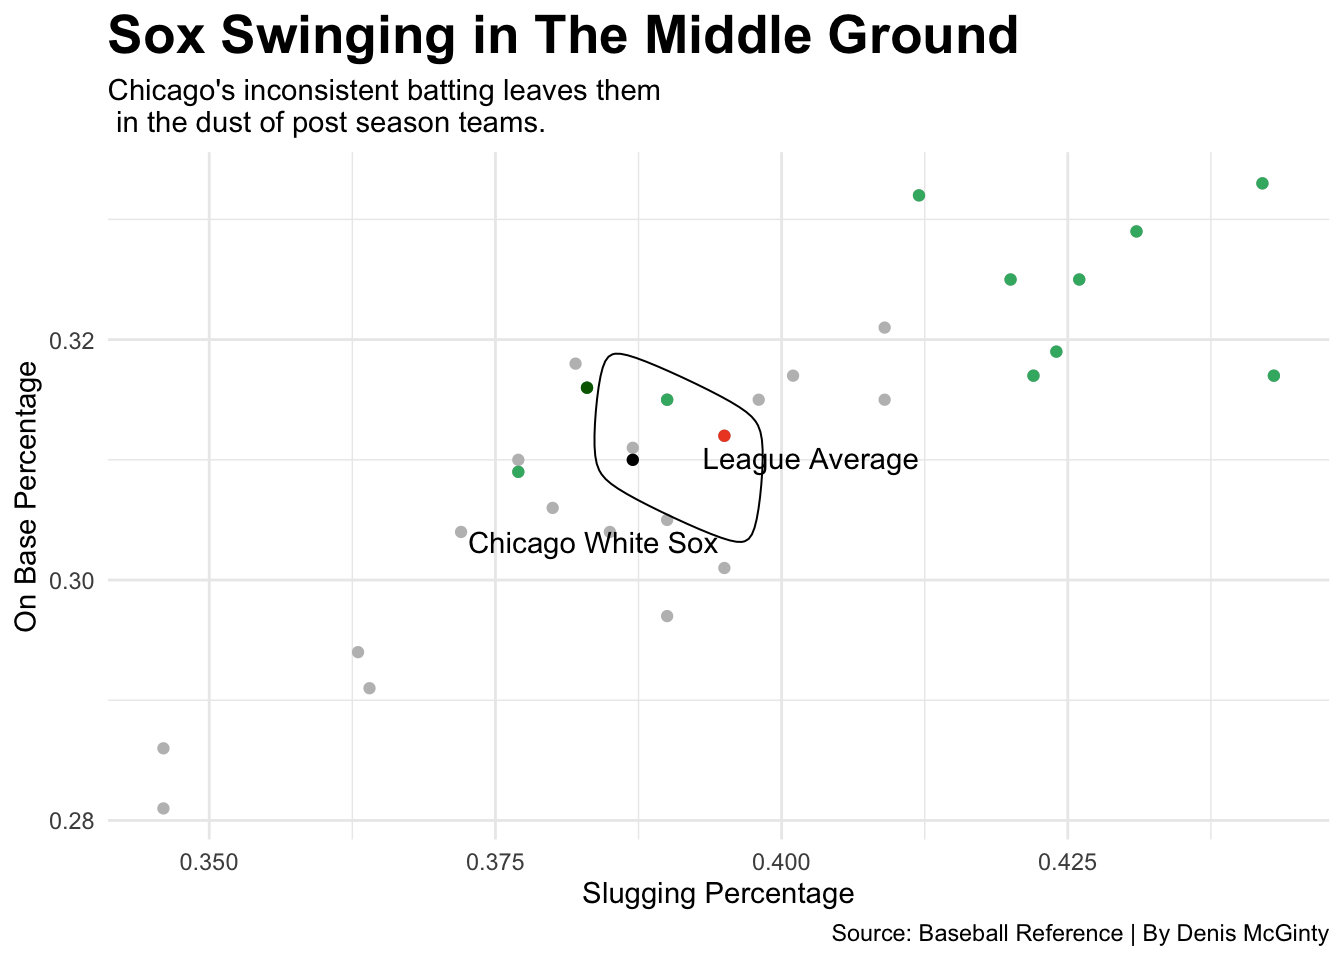
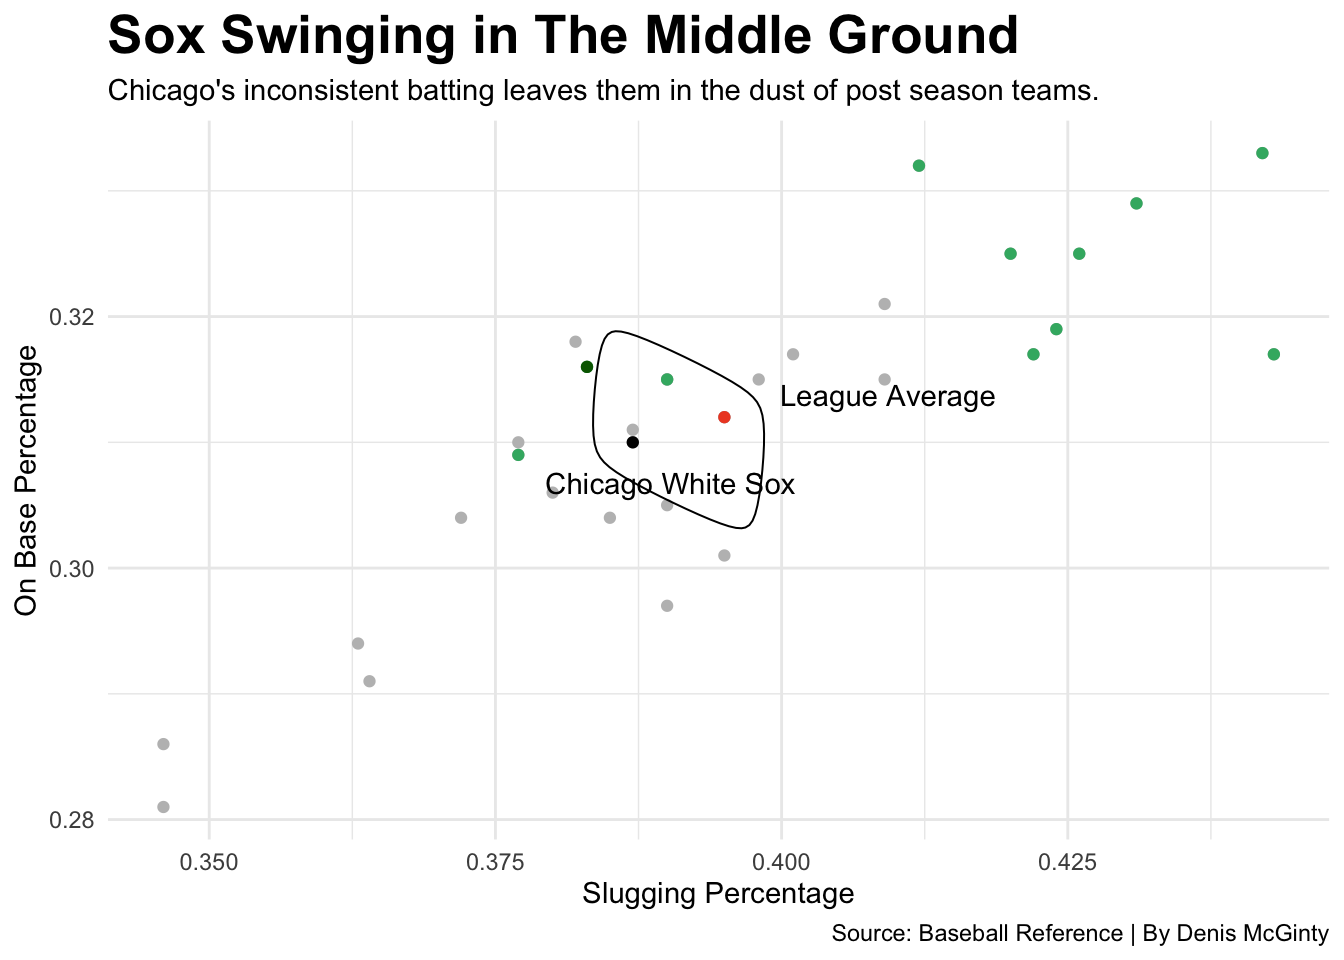
White sox project, cleaned and fixed subtitles

diff --git a/posts/white-sox-project/index.html b/posts/white-sox-project/index.html
@@ -221,7 +221,7 @@ pre > code.sourceCode > span > a:first-child::before { text-decoration: underlin
 <span id="cb1-37"><a href="#cb1-37" aria-hidden="true" tabindex="-1"></a>    <span class="at">x=</span><span class="st">"Slugging Percentage"</span>, </span>
 <span id="cb1-38"><a href="#cb1-38" aria-hidden="true" tabindex="-1"></a>    <span class="at">y=</span><span class="st">"On Base Percentage"</span>, </span>
 <span id="cb1-39"><a href="#cb1-39" aria-hidden="true" tabindex="-1"></a>    <span class="at">title=</span><span class="st">"Sox Swinging in The Middle Ground"</span>, </span>
-<span id="cb1-40"><a href="#cb1-40" aria-hidden="true" tabindex="-1"></a>    <span class="at">subtitle=</span><span class="st">"Chicago's inconsistent batting leaves them </span><span class="sc">\n</span><span class="st"> in the dust of post season teams."</span>, </span>
+<span id="cb1-40"><a href="#cb1-40" aria-hidden="true" tabindex="-1"></a>    <span class="at">subtitle=</span><span class="st">"Chicago's inconsistent batting leaves them in the dust of post season teams."</span>, </span>
 <span id="cb1-41"><a href="#cb1-41" aria-hidden="true" tabindex="-1"></a>    <span class="at">caption=</span><span class="st">"Source: Baseball Reference | By Denis McGinty"</span></span>
 <span id="cb1-42"><a href="#cb1-42" aria-hidden="true" tabindex="-1"></a>    ) <span class="sc">+</span></span>
 <span id="cb1-43"><a href="#cb1-43" aria-hidden="true" tabindex="-1"></a>  <span class="fu">theme_minimal</span>() <span class="sc">+</span> </span>
@@ -244,53 +244,45 @@ pre > code.sourceCode > span > a:first-child::before { text-decoration: underlin
 <span id="cb2-5"><a href="#cb2-5" aria-hidden="true" tabindex="-1"></a></span>
 <span id="cb2-6"><a href="#cb2-6" aria-hidden="true" tabindex="-1"></a>Players22 <span class="ot">&lt;-</span> <span class="fu">read_csv</span>(<span class="st">"22Playersbball.csv"</span>)</span>
 <span id="cb2-7"><a href="#cb2-7" aria-hidden="true" tabindex="-1"></a></span>
-<span id="cb2-8"><a href="#cb2-8" aria-hidden="true" tabindex="-1"></a>SOX22 <span class="ot">&lt;-</span> Players22 <span class="sc">|&gt;</span></span>
-<span id="cb2-9"><a href="#cb2-9" aria-hidden="true" tabindex="-1"></a>  <span class="fu">filter</span>(Tm <span class="sc">==</span> <span class="st">"CHW"</span>)</span>
-<span id="cb2-10"><a href="#cb2-10" aria-hidden="true" tabindex="-1"></a></span>
-<span id="cb2-11"><a href="#cb2-11" aria-hidden="true" tabindex="-1"></a>Teams <span class="ot">&lt;-</span> <span class="fu">read.csv</span>(<span class="st">"2022baseball.csv"</span>)</span>
-<span id="cb2-12"><a href="#cb2-12" aria-hidden="true" tabindex="-1"></a></span>
-<span id="cb2-13"><a href="#cb2-13" aria-hidden="true" tabindex="-1"></a>SOX <span class="ot">&lt;-</span> Teams <span class="sc">|&gt;</span> </span>
-<span id="cb2-14"><a href="#cb2-14" aria-hidden="true" tabindex="-1"></a>  <span class="fu">filter</span>(Tm <span class="sc">==</span> <span class="st">"Chicago White Sox"</span>)</span>
-<span id="cb2-15"><a href="#cb2-15" aria-hidden="true" tabindex="-1"></a></span>
-<span id="cb2-16"><a href="#cb2-16" aria-hidden="true" tabindex="-1"></a>SOXgood <span class="ot">&lt;-</span> Teams <span class="sc">|&gt;</span> </span>
-<span id="cb2-17"><a href="#cb2-17" aria-hidden="true" tabindex="-1"></a>  <span class="fu">filter</span>(Tm <span class="sc">==</span> <span class="st">"Chicago White Sox"</span>, H<span class="sc">&gt;</span><span class="dv">100</span>)</span>
+<span id="cb2-8"><a href="#cb2-8" aria-hidden="true" tabindex="-1"></a>Playersclean <span class="ot">&lt;-</span> Players22 <span class="sc">|&gt;</span> </span>
+<span id="cb2-9"><a href="#cb2-9" aria-hidden="true" tabindex="-1"></a>  <span class="fu">mutate</span>(<span class="at">Name=</span><span class="fu">gsub</span>(<span class="st">"</span><span class="sc">\\</span><span class="st">*"</span>, <span class="st">""</span>, Name)) <span class="sc">|&gt;</span></span>
+<span id="cb2-10"><a href="#cb2-10" aria-hidden="true" tabindex="-1"></a>  <span class="fu">mutate</span>(<span class="at">Name=</span><span class="fu">gsub</span>(<span class="st">"</span><span class="sc">\\</span><span class="st">#"</span>, <span class="st">""</span>, Name)) </span>
+<span id="cb2-11"><a href="#cb2-11" aria-hidden="true" tabindex="-1"></a></span>
+<span id="cb2-12"><a href="#cb2-12" aria-hidden="true" tabindex="-1"></a>SOX22 <span class="ot">&lt;-</span> Playersclean <span class="sc">|&gt;</span></span>
+<span id="cb2-13"><a href="#cb2-13" aria-hidden="true" tabindex="-1"></a>  <span class="fu">filter</span>(Tm <span class="sc">==</span> <span class="st">"CHW"</span>)</span>
+<span id="cb2-14"><a href="#cb2-14" aria-hidden="true" tabindex="-1"></a></span>
+<span id="cb2-15"><a href="#cb2-15" aria-hidden="true" tabindex="-1"></a>Players22f <span class="ot">&lt;-</span> Playersclean <span class="sc">|&gt;</span> <span class="fu">filter</span>(PA <span class="sc">&gt;</span> <span class="dv">125</span>)</span>
+<span id="cb2-16"><a href="#cb2-16" aria-hidden="true" tabindex="-1"></a></span>
+<span id="cb2-17"><a href="#cb2-17" aria-hidden="true" tabindex="-1"></a>MLB <span class="ot">&lt;-</span> <span class="fu">c</span>(<span class="st">"CHW"</span>, <span class="st">"ARI"</span>, <span class="st">"ATL"</span>, <span class="st">"BAL"</span>,<span class="st">"BOS"</span>,<span class="st">"CHC"</span>, <span class="st">"CIN"</span>, <span class="st">"CLE"</span>, <span class="st">"COL"</span>, <span class="st">"DET"</span>, <span class="st">"HOU"</span>, <span class="st">"KCR"</span>, <span class="st">"LAA"</span>, <span class="st">"LAD"</span>, <span class="st">"MIA"</span>, <span class="st">"MIL"</span>, <span class="st">"MIN"</span>, <span class="st">"NYM"</span>, <span class="st">"NYY"</span>, <span class="st">"OAK"</span>, <span class="st">"PHI"</span>, <span class="st">"PIT"</span>, <span class="st">"SDP"</span>, <span class="st">"SEA"</span>, <span class="st">"SFG"</span>, <span class="st">"STL"</span>, <span class="st">"TBR"</span>, <span class="st">"TEX"</span>, <span class="st">"TOR"</span> )</span>
 <span id="cb2-18"><a href="#cb2-18" aria-hidden="true" tabindex="-1"></a></span>
-<span id="cb2-19"><a href="#cb2-19" aria-hidden="true" tabindex="-1"></a>Playersclean <span class="ot">&lt;-</span> Players22 <span class="sc">|&gt;</span> </span>
-<span id="cb2-20"><a href="#cb2-20" aria-hidden="true" tabindex="-1"></a>  <span class="fu">mutate</span>(<span class="at">Name=</span><span class="fu">gsub</span>(<span class="st">"</span><span class="sc">\\</span><span class="st">*"</span>, <span class="st">""</span>, Name)) <span class="sc">|&gt;</span></span>
-<span id="cb2-21"><a href="#cb2-21" aria-hidden="true" tabindex="-1"></a>  <span class="fu">mutate</span>(<span class="at">Name=</span><span class="fu">gsub</span>(<span class="st">"</span><span class="sc">\\</span><span class="st">#"</span>, <span class="st">""</span>, Name)) </span>
-<span id="cb2-22"><a href="#cb2-22" aria-hidden="true" tabindex="-1"></a></span>
-<span id="cb2-23"><a href="#cb2-23" aria-hidden="true" tabindex="-1"></a>Players22f <span class="ot">&lt;-</span> Playersclean <span class="sc">|&gt;</span> <span class="fu">filter</span>(PA <span class="sc">&gt;</span> <span class="dv">125</span>)</span>
+<span id="cb2-19"><a href="#cb2-19" aria-hidden="true" tabindex="-1"></a>MLB<span class="ot">&lt;-</span> Players22f <span class="sc">|&gt;</span></span>
+<span id="cb2-20"><a href="#cb2-20" aria-hidden="true" tabindex="-1"></a>  <span class="fu">filter</span>(Tm <span class="sc">%in%</span> MLB)</span>
+<span id="cb2-21"><a href="#cb2-21" aria-hidden="true" tabindex="-1"></a></span>
+<span id="cb2-22"><a href="#cb2-22" aria-hidden="true" tabindex="-1"></a>MLBlim<span class="ot">&lt;-</span> MLB <span class="sc">|&gt;</span> </span>
+<span id="cb2-23"><a href="#cb2-23" aria-hidden="true" tabindex="-1"></a>  <span class="fu">filter</span> (H<span class="sc">&gt;</span><span class="dv">65</span>, RBI<span class="sc">&gt;</span><span class="dv">30</span>)</span>
 <span id="cb2-24"><a href="#cb2-24" aria-hidden="true" tabindex="-1"></a></span>
-<span id="cb2-25"><a href="#cb2-25" aria-hidden="true" tabindex="-1"></a>MLB <span class="ot">&lt;-</span> <span class="fu">c</span>(<span class="st">"CHW"</span>, <span class="st">"ARI"</span>, <span class="st">"ATL"</span>, <span class="st">"BAL"</span>,<span class="st">"BOS"</span>,<span class="st">"CHC"</span>, <span class="st">"CIN"</span>, <span class="st">"CLE"</span>, <span class="st">"COL"</span>, <span class="st">"DET"</span>, <span class="st">"HOU"</span>, <span class="st">"KCR"</span>, <span class="st">"LAA"</span>, <span class="st">"LAD"</span>, <span class="st">"MIA"</span>, <span class="st">"MIL"</span>, <span class="st">"MIN"</span>, <span class="st">"NYM"</span>, <span class="st">"NYY"</span>, <span class="st">"OAK"</span>, <span class="st">"PHI"</span>, <span class="st">"PIT"</span>, <span class="st">"SDP"</span>, <span class="st">"SEA"</span>, <span class="st">"SFG"</span>, <span class="st">"STL"</span>, <span class="st">"TBR"</span>, <span class="st">"TEX"</span>, <span class="st">"TOR"</span> )</span>
-<span id="cb2-26"><a href="#cb2-26" aria-hidden="true" tabindex="-1"></a></span>
-<span id="cb2-27"><a href="#cb2-27" aria-hidden="true" tabindex="-1"></a>MLB<span class="ot">&lt;-</span> Players22f <span class="sc">|&gt;</span></span>
-<span id="cb2-28"><a href="#cb2-28" aria-hidden="true" tabindex="-1"></a>  <span class="fu">filter</span>(Tm <span class="sc">%in%</span> MLB)</span>
-<span id="cb2-29"><a href="#cb2-29" aria-hidden="true" tabindex="-1"></a></span>
-<span id="cb2-30"><a href="#cb2-30" aria-hidden="true" tabindex="-1"></a>MLBlim<span class="ot">&lt;-</span> MLB <span class="sc">|&gt;</span> </span>
-<span id="cb2-31"><a href="#cb2-31" aria-hidden="true" tabindex="-1"></a>  <span class="fu">filter</span> (H<span class="sc">&gt;</span><span class="dv">65</span>, RBI<span class="sc">&gt;</span><span class="dv">30</span>)</span>
-<span id="cb2-32"><a href="#cb2-32" aria-hidden="true" tabindex="-1"></a></span>
-<span id="cb2-33"><a href="#cb2-33" aria-hidden="true" tabindex="-1"></a>Soxlim<span class="ot">&lt;-</span> SOX22 <span class="sc">|&gt;</span></span>
-<span id="cb2-34"><a href="#cb2-34" aria-hidden="true" tabindex="-1"></a>  <span class="fu">filter</span> (H<span class="sc">&gt;</span><span class="dv">65</span>, RBI<span class="sc">&gt;</span><span class="dv">30</span>)</span>
-<span id="cb2-35"><a href="#cb2-35" aria-hidden="true" tabindex="-1"></a></span>
-<span id="cb2-36"><a href="#cb2-36" aria-hidden="true" tabindex="-1"></a></span>
-<span id="cb2-37"><a href="#cb2-37" aria-hidden="true" tabindex="-1"></a><span class="fu">ggplot</span>() <span class="sc">+</span> </span>
-<span id="cb2-38"><a href="#cb2-38" aria-hidden="true" tabindex="-1"></a>  <span class="fu">geom_point</span>(<span class="at">data=</span>MLBlim,<span class="fu">aes</span>(<span class="at">x=</span>H, <span class="at">y=</span>RBI, <span class="at">size=</span>HR),<span class="at">alpha =</span> .<span class="dv">3</span>, <span class="at">color=</span><span class="st">"light grey"</span>) <span class="sc">+</span> </span>
-<span id="cb2-39"><a href="#cb2-39" aria-hidden="true" tabindex="-1"></a>   <span class="fu">geom_point</span>(<span class="at">data=</span>Soxlim,<span class="fu">aes</span>(<span class="at">x=</span>H, <span class="at">y=</span>RBI, <span class="at">size=</span>HR),<span class="at">alpha =</span> .<span class="dv">3</span>, <span class="at">color=</span><span class="st">"black"</span>) <span class="sc">+</span> </span>
-<span id="cb2-40"><a href="#cb2-40" aria-hidden="true" tabindex="-1"></a>  <span class="fu">scale_size</span>(<span class="at">range =</span> <span class="fu">c</span>(<span class="dv">1</span>, <span class="dv">10</span>), <span class="at">name=</span><span class="st">"Home Runs"</span>) <span class="sc">+</span></span>
-<span id="cb2-41"><a href="#cb2-41" aria-hidden="true" tabindex="-1"></a>    <span class="fu">geom_smooth</span>(<span class="at">data=</span>MLBlim, <span class="fu">aes</span>(<span class="at">x=</span>H, <span class="at">y=</span>RBI), <span class="at">method=</span><span class="st">"lm"</span>, <span class="at">colour=</span> <span class="st">"red"</span>) <span class="sc">+</span></span>
-<span id="cb2-42"><a href="#cb2-42" aria-hidden="true" tabindex="-1"></a>  <span class="fu">geom_text_repel</span>(<span class="at">data=</span>Soxlim, <span class="fu">aes</span>(<span class="at">x=</span>H, <span class="at">y=</span>RBI<span class="fl">-.005</span>, <span class="at">label=</span>Name)) <span class="sc">+</span></span>
-<span id="cb2-43"><a href="#cb2-43" aria-hidden="true" tabindex="-1"></a>    <span class="fu">labs</span>(</span>
-<span id="cb2-44"><a href="#cb2-44" aria-hidden="true" tabindex="-1"></a>    <span class="at">x=</span><span class="st">"Hits"</span>, </span>
-<span id="cb2-45"><a href="#cb2-45" aria-hidden="true" tabindex="-1"></a>    <span class="at">y=</span><span class="st">"Runs Batted In"</span>, </span>
-<span id="cb2-46"><a href="#cb2-46" aria-hidden="true" tabindex="-1"></a>    <span class="at">title=</span><span class="st">"The White Sox knock in an average amount"</span>, </span>
-<span id="cb2-47"><a href="#cb2-47" aria-hidden="true" tabindex="-1"></a>    <span class="at">subtitle=</span><span class="st">"The south side sluggers couldn't hit for power which </span><span class="sc">\n</span><span class="st"> leaves their star players average at best."</span>, </span>
-<span id="cb2-48"><a href="#cb2-48" aria-hidden="true" tabindex="-1"></a>    <span class="at">caption=</span><span class="st">"Source: Baseball Reference | By Denis McGinty"</span></span>
-<span id="cb2-49"><a href="#cb2-49" aria-hidden="true" tabindex="-1"></a>    ) <span class="sc">+</span></span>
-<span id="cb2-50"><a href="#cb2-50" aria-hidden="true" tabindex="-1"></a>  <span class="fu">theme_minimal</span>() <span class="sc">+</span> </span>
-<span id="cb2-51"><a href="#cb2-51" aria-hidden="true" tabindex="-1"></a>  <span class="fu">theme</span>(</span>
-<span id="cb2-52"><a href="#cb2-52" aria-hidden="true" tabindex="-1"></a>    <span class="at">plot.title =</span> <span class="fu">element_text</span>(<span class="at">size =</span> <span class="dv">20</span>, <span class="at">face =</span> <span class="st">"bold"</span>), </span>
-<span id="cb2-53"><a href="#cb2-53" aria-hidden="true" tabindex="-1"></a>    <span class="at">panel.grid.minor =</span> <span class="fu">element_blank</span>()</span>
-<span id="cb2-54"><a href="#cb2-54" aria-hidden="true" tabindex="-1"></a>    ) </span></code><button title="Copy to Clipboard" class="code-copy-button"><i class="bi"></i></button></pre></div>
+<span id="cb2-25"><a href="#cb2-25" aria-hidden="true" tabindex="-1"></a>Soxlim<span class="ot">&lt;-</span> SOX22 <span class="sc">|&gt;</span></span>
+<span id="cb2-26"><a href="#cb2-26" aria-hidden="true" tabindex="-1"></a>  <span class="fu">filter</span> (H<span class="sc">&gt;</span><span class="dv">65</span>, RBI<span class="sc">&gt;</span><span class="dv">30</span>)</span>
+<span id="cb2-27"><a href="#cb2-27" aria-hidden="true" tabindex="-1"></a></span>
+<span id="cb2-28"><a href="#cb2-28" aria-hidden="true" tabindex="-1"></a></span>
+<span id="cb2-29"><a href="#cb2-29" aria-hidden="true" tabindex="-1"></a><span class="fu">ggplot</span>() <span class="sc">+</span> </span>
+<span id="cb2-30"><a href="#cb2-30" aria-hidden="true" tabindex="-1"></a>  <span class="fu">geom_point</span>(<span class="at">data=</span>MLBlim,<span class="fu">aes</span>(<span class="at">x=</span>H, <span class="at">y=</span>RBI, <span class="at">size=</span>HR),<span class="at">alpha =</span> .<span class="dv">3</span>, <span class="at">color=</span><span class="st">"light grey"</span>) <span class="sc">+</span> </span>
+<span id="cb2-31"><a href="#cb2-31" aria-hidden="true" tabindex="-1"></a>   <span class="fu">geom_point</span>(<span class="at">data=</span>Soxlim,<span class="fu">aes</span>(<span class="at">x=</span>H, <span class="at">y=</span>RBI, <span class="at">size=</span>HR),<span class="at">alpha =</span> .<span class="dv">3</span>, <span class="at">color=</span><span class="st">"black"</span>) <span class="sc">+</span> </span>
+<span id="cb2-32"><a href="#cb2-32" aria-hidden="true" tabindex="-1"></a>  <span class="fu">scale_size</span>(<span class="at">range =</span> <span class="fu">c</span>(<span class="dv">1</span>, <span class="dv">10</span>), <span class="at">name=</span><span class="st">"Home Runs"</span>) <span class="sc">+</span></span>
+<span id="cb2-33"><a href="#cb2-33" aria-hidden="true" tabindex="-1"></a>    <span class="fu">geom_smooth</span>(<span class="at">data=</span>MLBlim, <span class="fu">aes</span>(<span class="at">x=</span>H, <span class="at">y=</span>RBI), <span class="at">method=</span><span class="st">"lm"</span>, <span class="at">colour=</span> <span class="st">"red"</span>) <span class="sc">+</span></span>
+<span id="cb2-34"><a href="#cb2-34" aria-hidden="true" tabindex="-1"></a>  <span class="fu">geom_text_repel</span>(<span class="at">data=</span>Soxlim, <span class="fu">aes</span>(<span class="at">x=</span>H, <span class="at">y=</span>RBI<span class="fl">-.005</span>, <span class="at">label=</span>Name)) <span class="sc">+</span></span>
+<span id="cb2-35"><a href="#cb2-35" aria-hidden="true" tabindex="-1"></a>    <span class="fu">labs</span>(</span>
+<span id="cb2-36"><a href="#cb2-36" aria-hidden="true" tabindex="-1"></a>    <span class="at">x=</span><span class="st">"Hits"</span>, </span>
+<span id="cb2-37"><a href="#cb2-37" aria-hidden="true" tabindex="-1"></a>    <span class="at">y=</span><span class="st">"Runs Batted In"</span>, </span>
+<span id="cb2-38"><a href="#cb2-38" aria-hidden="true" tabindex="-1"></a>    <span class="at">title=</span><span class="st">"The White Sox knock in an average amount"</span>, </span>
+<span id="cb2-39"><a href="#cb2-39" aria-hidden="true" tabindex="-1"></a>    <span class="at">subtitle=</span><span class="st">"The south side sluggers couldn't hit for power which leaves their star players average at best."</span>, </span>
+<span id="cb2-40"><a href="#cb2-40" aria-hidden="true" tabindex="-1"></a>    <span class="at">caption=</span><span class="st">"Source: Baseball Reference | By Denis McGinty"</span></span>
+<span id="cb2-41"><a href="#cb2-41" aria-hidden="true" tabindex="-1"></a>    ) <span class="sc">+</span></span>
+<span id="cb2-42"><a href="#cb2-42" aria-hidden="true" tabindex="-1"></a>  <span class="fu">theme_minimal</span>() <span class="sc">+</span> </span>
+<span id="cb2-43"><a href="#cb2-43" aria-hidden="true" tabindex="-1"></a>  <span class="fu">theme</span>(</span>
+<span id="cb2-44"><a href="#cb2-44" aria-hidden="true" tabindex="-1"></a>    <span class="at">plot.title =</span> <span class="fu">element_text</span>(<span class="at">size =</span> <span class="dv">20</span>, <span class="at">face =</span> <span class="st">"bold"</span>), </span>
+<span id="cb2-45"><a href="#cb2-45" aria-hidden="true" tabindex="-1"></a>    <span class="at">panel.grid.minor =</span> <span class="fu">element_blank</span>()</span>
+<span id="cb2-46"><a href="#cb2-46" aria-hidden="true" tabindex="-1"></a>    ) </span></code><button title="Copy to Clipboard" class="code-copy-button"><i class="bi"></i></button></pre></div>
 </details>
 <div class="cell-output-display">
 <p><img src="index_files/figure-html/unnamed-chunk-2-1.png" class="img-fluid" width="672"></p>
@@ -329,7 +321,7 @@ pre > code.sourceCode > span > a:first-child::before { text-decoration: underlin
 <span id="cb3-27"><a href="#cb3-27" aria-hidden="true" tabindex="-1"></a>    <span class="at">x=</span><span class="st">"Teams"</span>, </span>
 <span id="cb3-28"><a href="#cb3-28" aria-hidden="true" tabindex="-1"></a>    <span class="at">y=</span><span class="st">"Earned Run Average (ERA)"</span>, </span>
 <span id="cb3-29"><a href="#cb3-29" aria-hidden="true" tabindex="-1"></a>    <span class="at">title=</span><span class="st">"Chicago's pitching is the mark to beat"</span>, </span>
-<span id="cb3-30"><a href="#cb3-30" aria-hidden="true" tabindex="-1"></a>    <span class="at">subtitle=</span><span class="st">"The White Sox pitching staff was carried by </span><span class="sc">\n</span><span class="st"> Dylan Cease to edge above league average."</span>, </span>
+<span id="cb3-30"><a href="#cb3-30" aria-hidden="true" tabindex="-1"></a>    <span class="at">subtitle=</span><span class="st">"The Sox pitching staff was carried by Dylan Cease to edge above league average."</span>, </span>
 <span id="cb3-31"><a href="#cb3-31" aria-hidden="true" tabindex="-1"></a>    <span class="at">caption=</span><span class="st">"Source: Baseball Reference | By Denis McGinty"</span></span>
 <span id="cb3-32"><a href="#cb3-32" aria-hidden="true" tabindex="-1"></a>    )  <span class="sc">+</span> </span>
 <span id="cb3-33"><a href="#cb3-33" aria-hidden="true" tabindex="-1"></a>  <span class="fu">theme</span>(</span>

diff --git a/index.html b/index.html
@@ -165,7 +165,7 @@ ul.task-list li input[type="checkbox"] {
 
 <div class="quarto-listing quarto-listing-container-default" id="listing-listing">
 <div class="list quarto-listing-default">
-<div class="quarto-post image-right" data-index="0" data-categories="sports,data,sox" data-listing-date-sort="1699596000000" data-listing-file-modified-sort="1699805108763" data-listing-date-modified-sort="NaN" data-listing-reading-time-sort="6">
+<div class="quarto-post image-right" data-index="0" data-categories="sports,data,sox" data-listing-date-sort="1699596000000" data-listing-file-modified-sort="1699806323489" data-listing-date-modified-sort="NaN" data-listing-reading-time-sort="6">
 <div class="thumbnail">
 <p><a href="./posts/white-sox-project/index.html"> <img src="./posts/white-sox-project/Image.png" class="thumbnail-image"> </a></p>
 </div>
